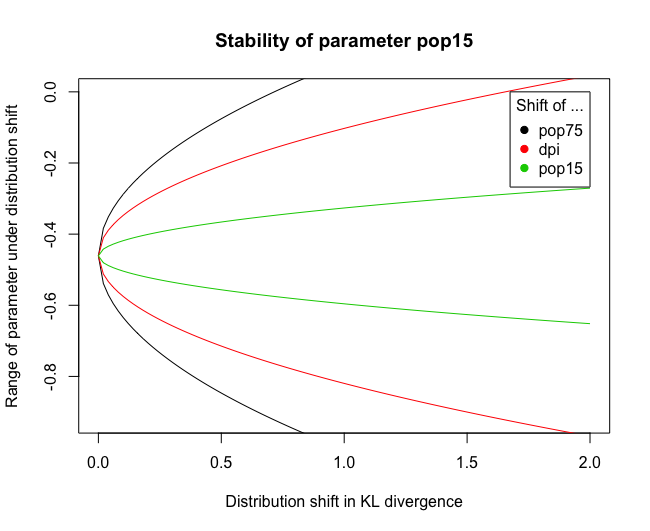
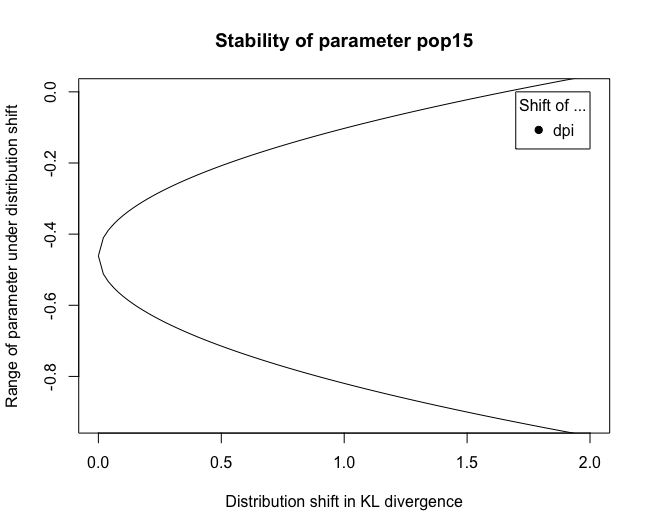
png

diff --git a/README.md b/README.md
@@ -10,10 +10,10 @@ This package provides a function for evaluating the stability of lm and glm mode
 
 ## Usage
 
-The following code plots the distributional stability of the coefficient "pop15" under distributional shifts in "pop75", "dpi", and "pop15", respectively.
+The following code plots the distributional stability of the coefficient "pop15" under a distribution shift in "dpi".
 ```R
 fit <- lm(sr ~ pop15 + pop75 + dpi + ddpi, data = LifeCycleSavings)
-stability(fit,param="pop15",E=c("pop75","dpi","pop15"))
+stability(fit,param="pop15",E="dpi")
 ```
 
 <img src="art/pop15-1.png" width="400">
